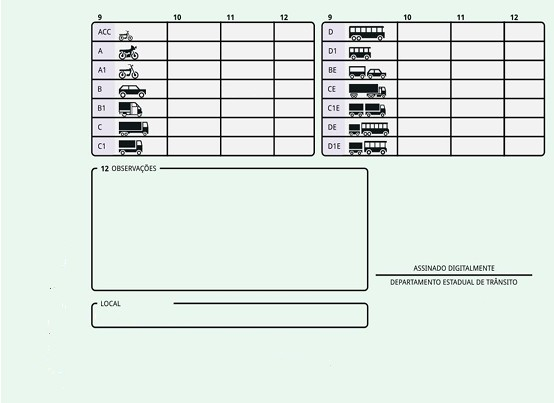
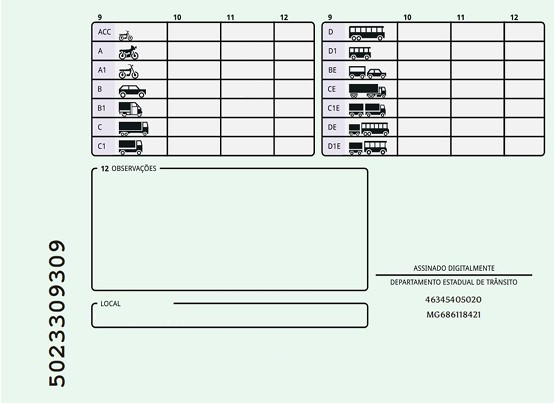
Insere script para gerar dados de cnh digital - verso

Changed region(s): [[0.0921, 0.5955, 0.1227, 0.9826], [0.7671, 0.7146, 0.8592, 0.804]]

diff --git a/scripts/gera_dados_cnh_nova_verso.py b/scripts/gera_dados_cnh_nova_verso.py
@@ -1,0 +1,53 @@
+import csv
+from datetime import datetime, timedelta
+from faker import Faker
+
+def add_ten_years(dt):
+    # Tenta adicionar 10 anos mantendo dia/mês; se der erro (ex.: 29/02), faz fallback.
+    try:
+        return dt.replace(year=dt.year + 10)
+    except ValueError:
+        return dt + timedelta(days=365 * 10 + 2)  # compensação aproximada
+
+def gerar_csv(csv_frente, nome_arquivo_saida="cnh_nova_fake_verso.csv"):
+    fake = Faker("pt_BR")
+
+    count = 0 # A mesma quantidade de dados que tiver na frente terá no verso
+
+    with open(csv_frente, mode="r", encoding="utf-8") as entrada, \
+         open(nome_arquivo_saida, mode="w", newline="", encoding="utf-8") as saida:
+        
+        leitor = csv.DictReader(entrada)
+        escritor = csv.writer(saida)
+        escritor.writerow(["data_emissao", "validade", "local", "uf"])
+
+        for linha in leitor:
+            try:
+                # Data de emissão é lida da frente
+                data_emissao = datetime.strptime(linha["data_emissao"], "%d/%m/%Y")
+
+                # Calcula validade (10 anos depois)
+                validade = add_ten_years(data_emissao)
+
+                # Gera local e UF aleatórios
+                cidade = fake.city().upper()
+                uf = fake.estado_sigla()
+
+                escritor.writerow([
+                    data_emissao.strftime("%d/%m/%Y"),
+                    validade.strftime("%d/%m/%Y"),
+                    cidade,
+                    uf
+                ])
+                count += 1
+
+            except Exception as e:
+                print(f"Erro ao processar linha: {linha} -> {e}")
+
+    print(f"Arquivo '{nome_arquivo_saida}' gerado com sucesso!")
+    print(f"{count} CNHs fake salvas em '{nome_arquivo_saida}'")
+
+
+if __name__ == "__main__":
+    caminho_csv = 'cnh_nova_fake_frente.csv'
+    gerar_csv(caminho_csv)

diff --git a/scripts/gera_dados_cnh_nova_frente.py b/scripts/gera_dados_cnh_nova_frente.py
@@ -3,12 +3,12 @@ import random
 from faker import Faker
 from datetime import datetime, timedelta
 
-def gerar_csv(qtd_itens, nome_arquivo="cnh_nova_fake.csv"):
+def gerar_csv(qtd_itens, nome_arquivo_saida="cnh_nova_fake_frente.csv"):
     # Definindo o idioma
     fake = Faker('pt_BR')
     categorias = ["ACC", "A", "A1", "B", "B1", "C", "C1", "D", "D1", "BE", "CE", "C1E", "DE", "D1E"]
 
-    with open(nome_arquivo, mode='w', newline='', encoding='utf-8') as arquivo:
+    with open(nome_arquivo_saida, mode='w', newline='', encoding='utf-8') as arquivo:
         escritor = csv.writer(arquivo)
 
         # Cabeçalho com labels da CNH nova (dados combinados já tratados)
@@ -82,7 +82,7 @@ def gerar_csv(qtd_itens, nome_arquivo="cnh_nova_fake.csv"):
                 filiacao_mae
             ])
 
-    print(f"{qtd_itens} CNHs fake salvas em '{nome_arquivo}'")
+    print(f"{qtd_itens} CNHs fake salvas em '{nome_arquivo_saida}'")
 
 
 if __name__ == "__main__":
